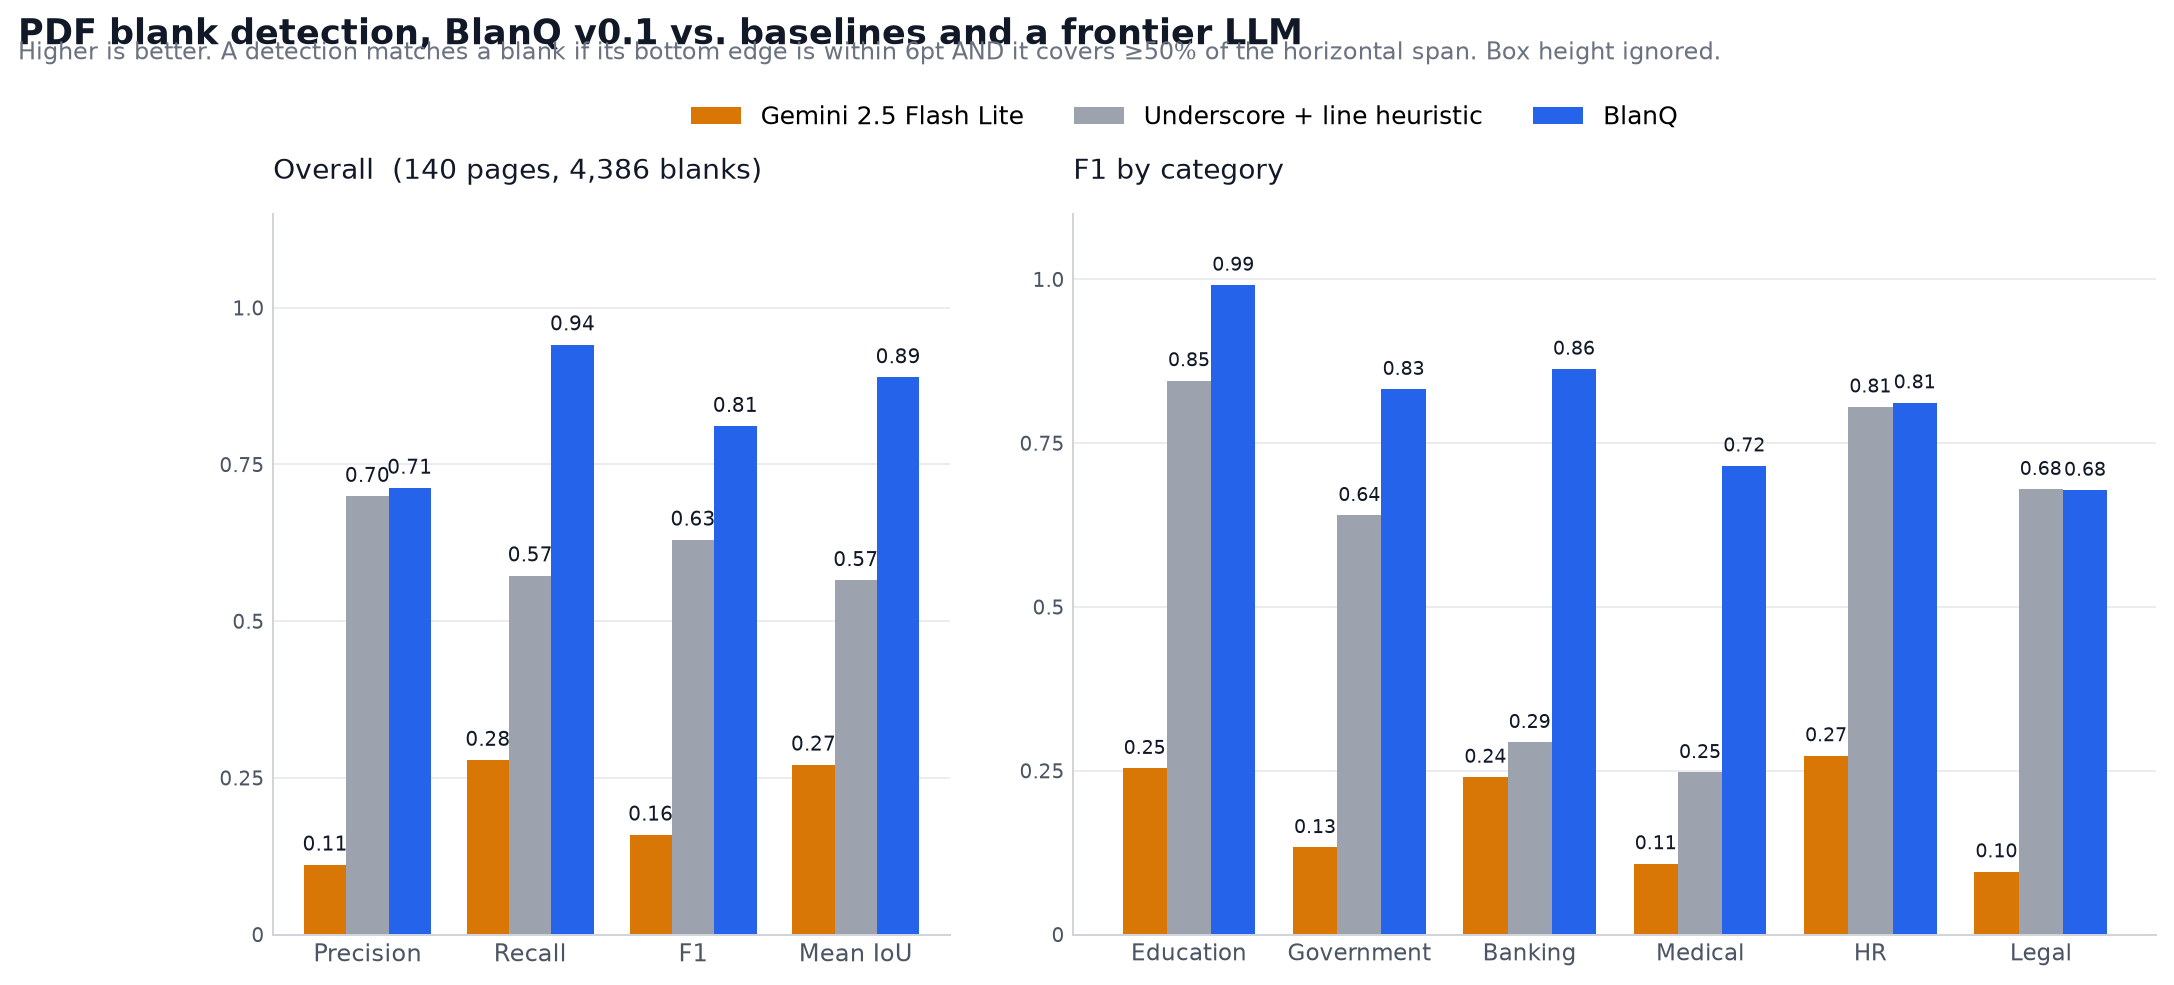
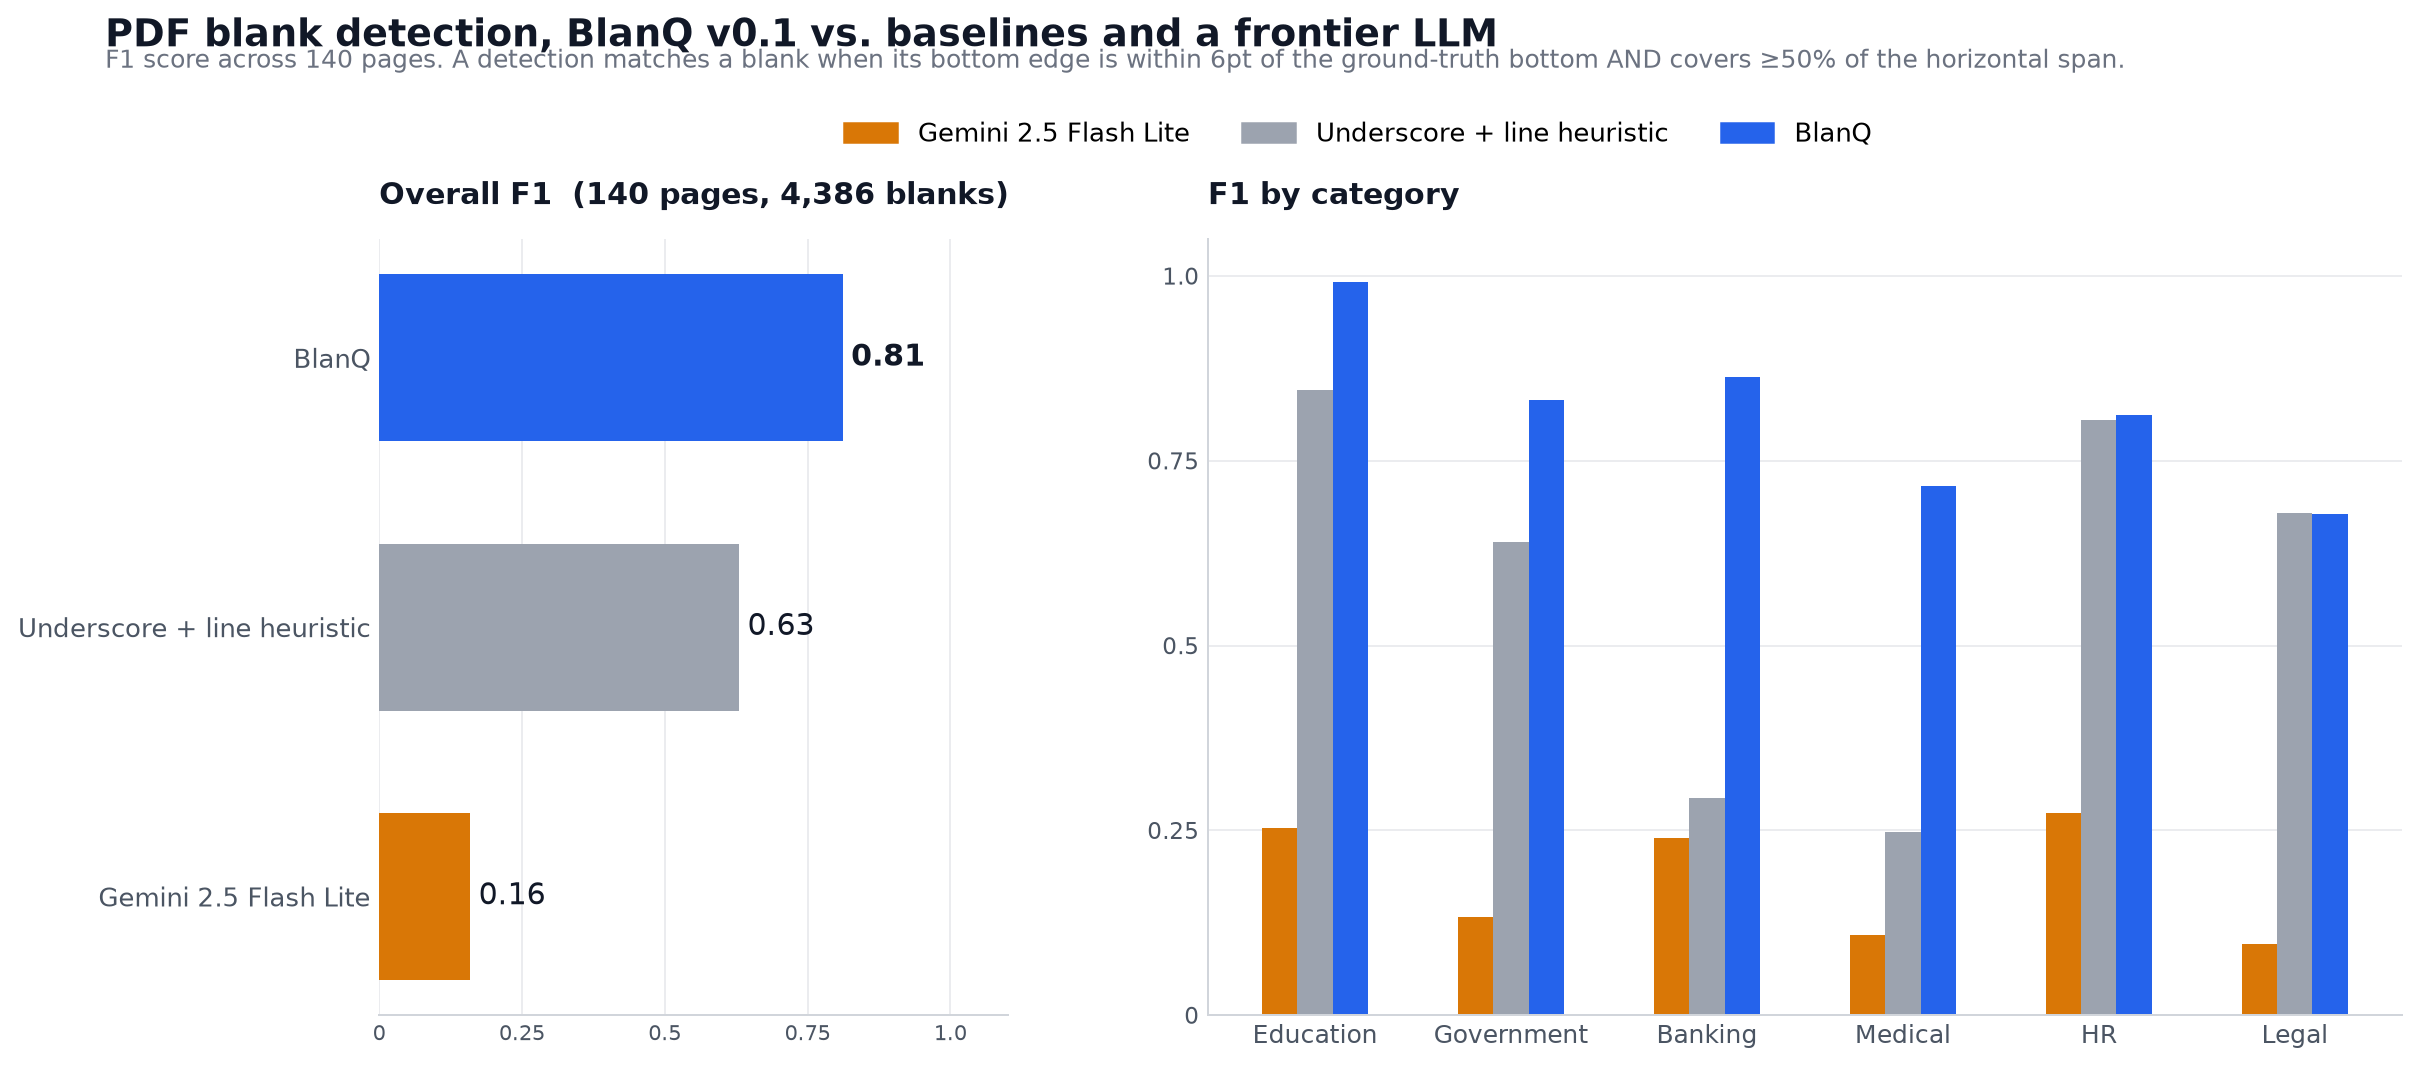
Chart redesign: F1-only, sorted best-to-worst, no label collisions
Previous chart showed precision, recall, F1, and mean IoU as adjacent
bars. That made precision look like the primary metric (leftmost) and
crammed labels together. Adjacent tied values (HR 0.81/0.81, Legal
0.68/0.68) had labels physically touching.

New chart:
- Left panel: single horizontal bar per detector, F1 only, sorted
  best-to-worst. BlanQ on top in bold blue, values labeled at bar tips.
- Right panel: F1 per category, wider group spacing, no numeric labels
  on bars (the y-axis is precise enough and can't collide on ties).
- Precision/recall/speed still live in results/*/scores.json for
  anyone who wants the fine detail; they're not on the chart because
  showing them next to F1 misled the eye.

Subtitle spells out the match rule: bottom within 6pt AND horizontal
overlap >=50%.

diff --git a/scripts/make_charts.py b/scripts/make_charts.py
@@ -4,13 +4,19 @@ Generates the comparison chart shown in README.md and docs/index.html.
 Reads every results/<tool>/scores.json and the manifest, and writes a
 single PNG at docs/leaderboard.png.
 
-Two panels:
-  Left  — headline metrics (precision, recall, F1, mean IoU) grouped by tool
-  Right — F1 per category, grouped by tool
+Fool-proof layout: F1 is the ONLY metric shown on the chart. Precision,
+recall, mean IoU and speed live in the scores.json files for anyone who
+wants the fine detail. This prevents "precision looks most important
+because it's leftmost" misreads.
 
-Style follows the "release-day" chart convention: light background, no
-gridlines except a subtle horizontal one, values labelled on bars, the
-subject tool colored, baselines in gray.
+Two panels:
+  Left  — overall F1, one bar per detector (sorted best-to-worst)
+  Right — F1 per category, grouped by detector
+
+Style follows the "release-day" chart convention: light background,
+subtle gridlines, values labelled on bars, subject tool coloured,
+baselines in gray. Larger gaps between bar groups so labels never
+touch.
 """
 import csv, json, os
 from collections import defaultdict
@@ -96,29 +102,23 @@ def style_axes(ax):
 def draw_grouped_bars(ax, categories, values_by_tool, title):
     n_tools = len(TOOLS_IN_ORDER)
     n_cats  = len(categories)
-    bar_w = 0.78 / n_tools
-    x = np.arange(n_cats)
+    bar_w = 0.62 / n_tools
+    x = np.arange(n_cats) * 1.15
     for i, tool in enumerate(TOOLS_IN_ORDER):
         vals = [values_by_tool[tool].get(cat, 0) for cat in categories]
         offset = (i - (n_tools - 1) / 2) * bar_w
-        bars = ax.bar(x + offset, vals, bar_w, label=TOOL_LABELS[tool],
-                      color=TOOL_COLORS[tool], edgecolor="none")
-        for bar, v in zip(bars, vals):
-            if v == 0:
-                ax.text(bar.get_x() + bar.get_width() / 2, 0.03,
-                        "0.00", ha="center", va="bottom",
-                        fontsize=7.5, color="#9CA3AF", style="italic")
-                continue
-            ax.text(bar.get_x() + bar.get_width() / 2, v + 0.015,
-                    f"{v:.2f}", ha="center", va="bottom",
-                    fontsize=7.5, color="#111827")
+        ax.bar(x + offset, vals, bar_w, label=TOOL_LABELS[tool],
+               color=TOOL_COLORS[tool], edgecolor="none")
+    # No numeric labels on the bars: the y-axis is precise enough and
+    # avoids collisions on tied values. Absolute F1 numbers live on the
+    # left panel and in scores.json.
     ax.set_xticks(x)
     ax.set_xticklabels([CATEGORY_LABELS.get(c, c) for c in categories],
-                       fontsize=9, color="#111827")
-    ax.set_ylim(0, 1.1)
+                       fontsize=10, color="#111827")
+    ax.set_ylim(0, 1.05)
     ax.set_yticks([0, 0.25, 0.5, 0.75, 1.0])
-    ax.set_yticklabels(["0", "0.25", "0.5", "0.75", "1.0"], fontsize=8)
-    ax.set_title(title, fontsize=11, color="#111827", loc="left", pad=14)
+    ax.set_yticklabels(["0", "0.25", "0.5", "0.75", "1.0"], fontsize=9, color="#6B7280")
+    ax.set_title(title, fontsize=12, color="#111827", loc="left", pad=14, weight="bold")
     style_axes(ax)
 
 
@@ -128,50 +128,58 @@ def main():
     headline = {t: headline_metrics(t) for t in TOOLS_IN_ORDER}
     per_cat  = {t: per_category_f1(t, cat_map) for t in TOOLS_IN_ORDER}
 
+    # Sort detectors by overall F1 (worst first so bars ascend to the winner)
+    tools_ranked = sorted(TOOLS_IN_ORDER, key=lambda t: headline[t]["F1"])
+
     plt.rcParams["font.family"] = ["Helvetica", "Arial", "DejaVu Sans"]
     fig, (ax_left, ax_right) = plt.subplots(
-        1, 2, figsize=(13.5, 5.2),
-        gridspec_kw={"width_ratios": [1, 1.6], "wspace": 0.14})
+        1, 2, figsize=(14.5, 5.6),
+        gridspec_kw={"width_ratios": [1, 1.9], "wspace": 0.22})
     fig.patch.set_facecolor("#FFFFFF")
 
-    # LEFT: headline metrics grouped by tool
-    metric_names = list(next(iter(headline.values())).keys())
-    n_tools = len(TOOLS_IN_ORDER)
-    bar_w = 0.78 / n_tools
-    x = np.arange(len(metric_names))
-    for i, tool in enumerate(TOOLS_IN_ORDER):
-        vals = [headline[tool][m] for m in metric_names]
-        offset = (i - (n_tools - 1) / 2) * bar_w
-        bars = ax_left.bar(x + offset, vals, bar_w,
-                           label=TOOL_LABELS[tool],
-                           color=TOOL_COLORS[tool], edgecolor="none")
-        for bar, v in zip(bars, vals):
-            ax_left.text(bar.get_x() + bar.get_width() / 2, v + 0.015,
-                         f"{v:.2f}", ha="center", va="bottom",
-                         fontsize=8, color="#111827")
-    ax_left.set_xticks(x)
-    ax_left.set_xticklabels(metric_names, fontsize=9.5, color="#111827")
-    ax_left.set_ylim(0, 1.15)
-    ax_left.set_yticks([0, 0.25, 0.5, 0.75, 1.0])
-    ax_left.set_yticklabels(["0", "0.25", "0.5", "0.75", "1.0"], fontsize=8)
-    ax_left.set_title("Overall  (140 pages, 4,386 blanks)",
-                      fontsize=11, color="#111827", loc="left", pad=14)
-    style_axes(ax_left)
+    # LEFT: overall F1 only, one bar per detector, sorted best-to-worst.
+    # F1 is the only headline number; precision/recall/speed live in
+    # scores.json so nothing can misread a leftmost bar as "most important".
+    labels = [TOOL_LABELS[t] for t in tools_ranked]
+    colors = [TOOL_COLORS[t] for t in tools_ranked]
+    values = [headline[t]["F1"] for t in tools_ranked]
+    y = np.arange(len(tools_ranked))
+    bars = ax_left.barh(y, values, height=0.62, color=colors, edgecolor="none")
+    for bar, v, t in zip(bars, values, tools_ranked):
+        weight = "bold" if t == "blanq" else "normal"
+        ax_left.text(v + 0.015, bar.get_y() + bar.get_height() / 2,
+                     f"{v:.2f}", va="center", ha="left",
+                     fontsize=12, color="#111827", weight=weight)
+    ax_left.set_yticks(y)
+    ax_left.set_yticklabels(labels, fontsize=10.5, color="#111827")
+    ax_left.set_xlim(0, 1.1)
+    ax_left.set_xticks([0, 0.25, 0.5, 0.75, 1.0])
+    ax_left.set_xticklabels(["0", "0.25", "0.5", "0.75", "1.0"], fontsize=8.5, color="#6B7280")
+    ax_left.set_title("Overall F1  (140 pages, 4,386 blanks)",
+                      fontsize=12, color="#111827", loc="left", pad=14, weight="bold")
+    ax_left.spines["top"].set_visible(False)
+    ax_left.spines["right"].set_visible(False)
+    ax_left.spines["left"].set_visible(False)
+    ax_left.spines["bottom"].set_color("#D1D5DB")
+    ax_left.xaxis.grid(True, color="#E5E7EB", linewidth=0.6)
+    ax_left.tick_params(colors="#4B5563", length=0)
+    ax_left.set_axisbelow(True)
 
-    # RIGHT: F1 per category
+    # RIGHT: F1 per category, grouped bars in fixed left-to-right tool order
     draw_grouped_bars(ax_right, CATEGORIES, per_cat, "F1 by category")
 
-    # Single shared legend up top
-    handles, labels = ax_left.get_legend_handles_labels()
-    fig.legend(handles, labels, loc="upper center", ncol=len(TOOLS_IN_ORDER),
-               frameon=False, fontsize=10, bbox_to_anchor=(0.5, 1.02))
+    # Single shared legend up top, ordered same as the right chart
+    from matplotlib.patches import Patch
+    handles = [Patch(color=TOOL_COLORS[t], label=TOOL_LABELS[t]) for t in TOOLS_IN_ORDER]
+    fig.legend(handles=handles, loc="upper center", ncol=len(TOOLS_IN_ORDER),
+               frameon=False, fontsize=10.5, bbox_to_anchor=(0.5, 1.02))
 
     fig.suptitle("PDF blank detection, BlanQ v0.1 vs. baselines and a frontier LLM",
-                 fontsize=14, color="#111827", x=0.02, ha="left", y=1.09,
+                 fontsize=15, color="#111827", x=0.02, ha="left", y=1.10,
                  weight="bold")
-    fig.text(0.02, 1.045,
-             "Higher is better. A detection matches a blank if its bottom edge is within 6pt AND it covers ≥50% of the horizontal span. Box height ignored.",
-             fontsize=9.5, color="#6B7280", ha="left")
+    fig.text(0.02, 1.05,
+             "F1 score across 140 pages. A detection matches a blank when its bottom edge is within 6pt of the ground-truth bottom AND covers ≥50% of the horizontal span.",
+             fontsize=10, color="#6B7280", ha="left")
 
     fig.tight_layout(rect=[0, 0, 1, 0.98])
     os.makedirs(os.path.dirname(OUT_PNG), exist_ok=True)
